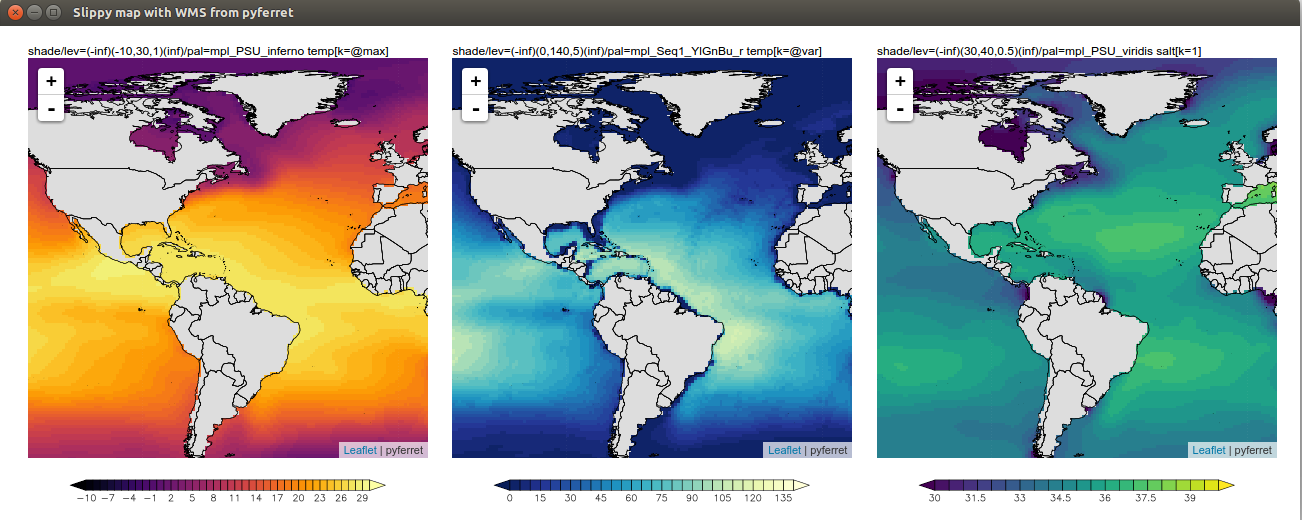
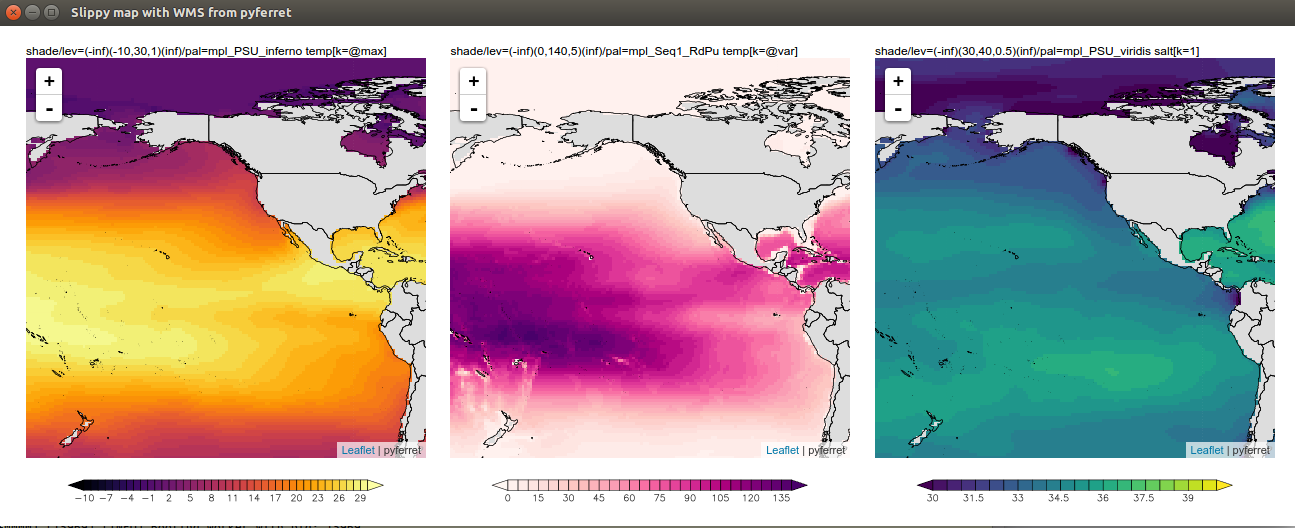
Fixes

diff --git a/pyferretWMS.py b/pyferretWMS.py
@@ -81,7 +81,7 @@ class myArbiter(gunicorn.arbiter.Arbiter):
         pyferret.stop()
 
 	print('Removing temporary directory: ', tmpdir)
-	#shutil.rmtree(tmpdir)
+	shutil.rmtree(tmpdir)
 
         super(myArbiter, self).halt()
 

diff --git a/README.md b/README.md
@@ -17,12 +17,13 @@ Options:
   --height=HEIGHT  300 < map height <= 600
 
 
-./pyferretWMS.py 'shade/lev=(-inf)(-10,30,1)(inf)/pal=mpl_PSU_inferno temp[k=@max]; shade/lev=(-inf)(0,140,5)(inf)/pal=mpl_Seq1_YlGnBu_r temp[k=@var]; shade/lev=(-inf)(30,40,0.5)(inf)/pal=mpl_PSU_viridis salt[k=1]'
+./pyferretWMS.py 'shade/lev=(-inf)(-10,30,1)(inf)/pal=mpl_PSU_inferno temp[k=@max]; shade/lev=(-inf)(0,140,5)(inf)/pal=mpl_Seq1_RdPu temp[k=@var]; shade/lev=(-inf)(30,40,0.5)(inf)/pal=mpl_PSU_viridis salt[k=1]'
 ```
 
 produces
 ![Capture](https://github.com/PBrockmann/wms-pyferret/raw/master/capture_02.png)
 
+Palettes used are available from: http://www.pmel.noaa.gov/maillists/tmap/ferret_users/fu_2015/msg00475.html
 
 <hr>
 2016/09/16
